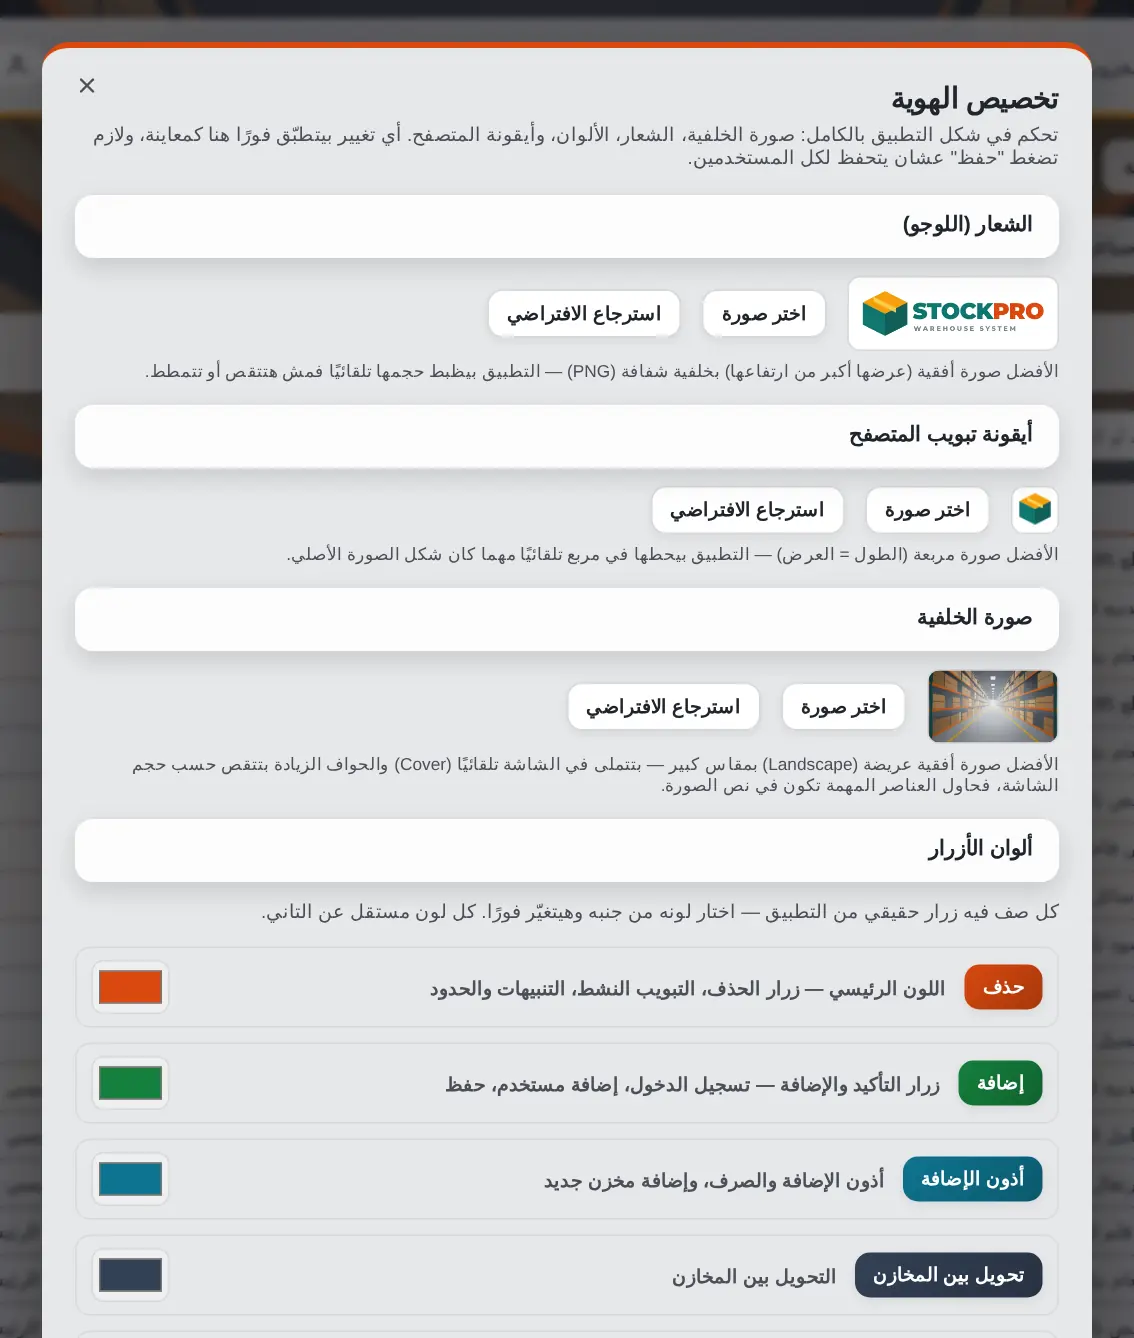
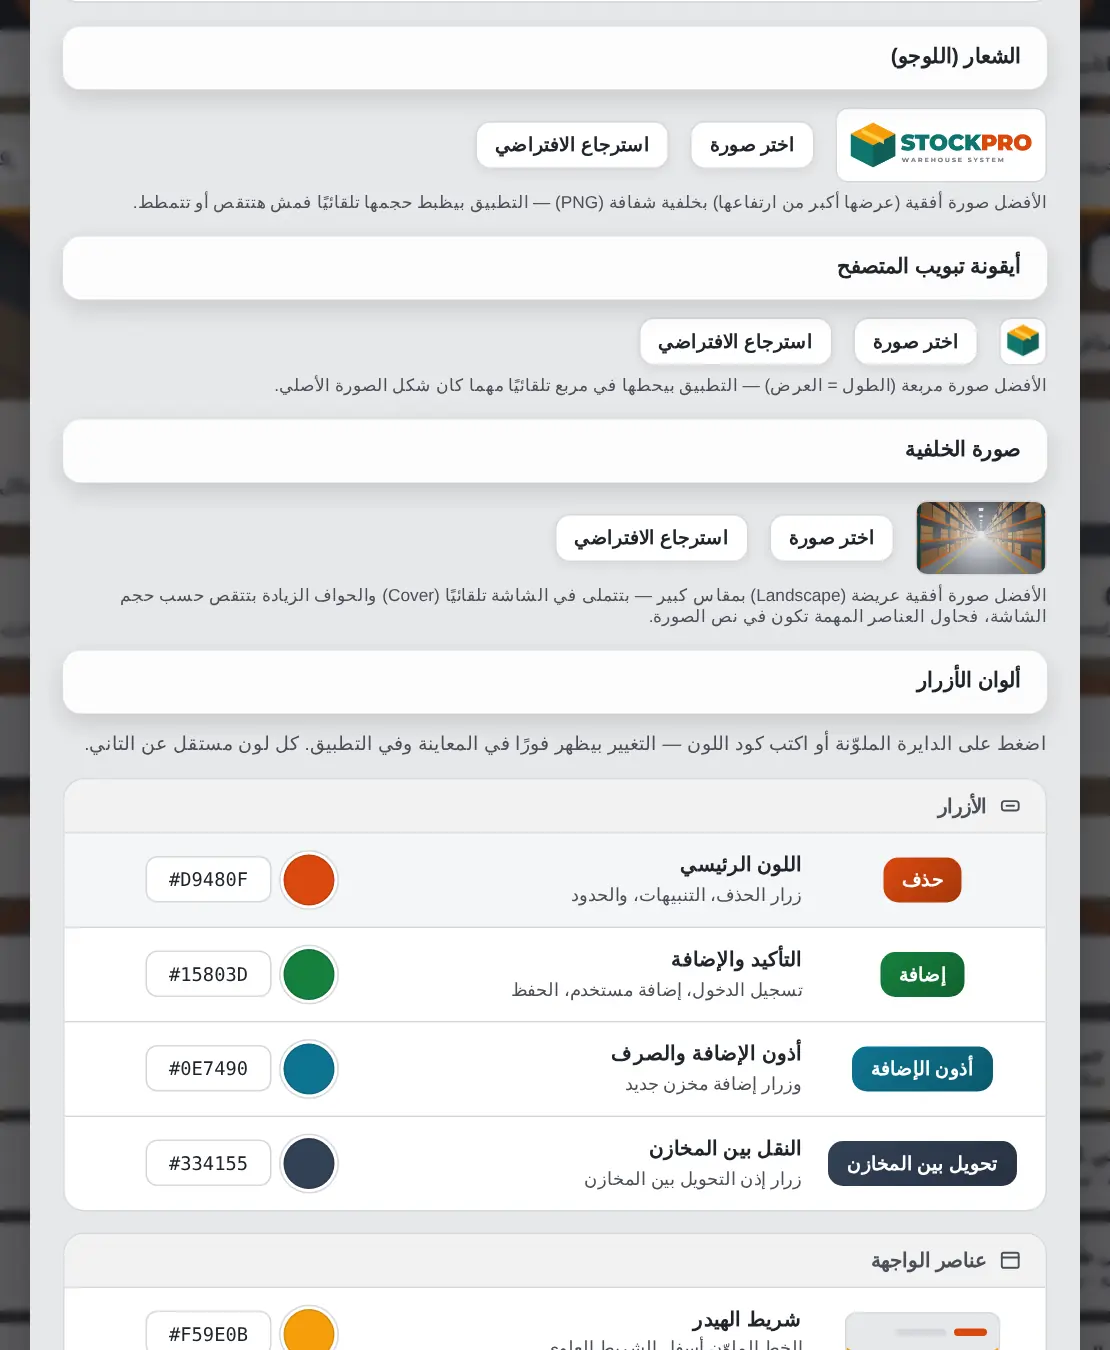
Add files via upload

diff --git a/demo.html b/demo.html
@@ -297,6 +297,45 @@
   html[data-theme="dark"] .print-page-wrap{background:#12141A;}
   html[data-theme="dark"] .print-page, html[data-theme="dark"] .print-page *{color-scheme:light;}
 
+  /* ============ Branding: color settings ============ */
+  .bc-wrap{display:flex;flex-direction:column;gap:14px;margin-top:12px;}
+  .bc-group{background:var(--surface);border:1px solid var(--line);border-radius:14px;overflow:hidden;}
+  .bc-group-title{display:flex;align-items:center;gap:8px;padding:10px 16px;font-family:'Cairo',sans-serif;font-weight:800;font-size:13px;color:var(--ink-soft);background:color-mix(in srgb, var(--canvas) 55%, var(--surface));border-bottom:1px solid var(--line);}
+  .bc-group-title svg{width:15px;height:15px;flex:none;}
+  .bc-row{display:grid;grid-template-columns:132px 1fr auto;align-items:center;gap:14px;padding:12px 16px;border-bottom:1px solid var(--line);transition:background .15s;}
+  .bc-row:last-child{border-bottom:none;}
+  .bc-row:hover{background:color-mix(in srgb, var(--canvas) 40%, var(--surface));}
+  .bc-prev{display:flex;justify-content:center;align-items:center;min-height:36px;}
+  .bc-prev .btn{pointer-events:none;box-shadow:none;}
+  .bc-info{min-width:0;}
+  .bc-info b{display:block;font-family:'Cairo',sans-serif;font-weight:800;font-size:13.5px;color:var(--ink);line-height:1.4;}
+  .bc-info span{display:block;font-size:12px;color:var(--ink-soft);line-height:1.5;margin-top:1px;}
+  .bc-ctrl{display:flex;align-items:center;gap:8px;}
+  .bc-swatch{position:relative;width:34px;height:34px;border-radius:50%;flex:none;cursor:pointer;box-shadow:0 0 0 2px var(--surface), 0 0 0 3px var(--line), inset 0 0 0 1px rgba(0,0,0,.12);transition:transform .12s, box-shadow .12s;}
+  .bc-swatch:hover{transform:scale(1.07);box-shadow:0 0 0 2px var(--surface), 0 0 0 3px var(--ink-soft), inset 0 0 0 1px rgba(0,0,0,.12);}
+  .bc-swatch input{position:absolute;inset:0;width:100%;height:100%;opacity:0;cursor:pointer;border:none;padding:0;}
+  .bc-hex{width:84px;padding:7px 8px;border-radius:8px;border:1px solid var(--line);background:var(--field-bg);color:var(--ink);font-family:ui-monospace,Menlo,Consolas,monospace;font-size:12.5px;text-transform:uppercase;text-align:center;direction:ltr;}
+  .bc-hex:focus{outline:none;border-color:var(--brand);box-shadow:0 0 0 3px rgba(var(--brand-rgb),.12);}
+  .bc-hex.bad{border-color:var(--danger);}
+  .bc-reset{width:30px;height:30px;border-radius:8px;border:1px solid transparent;background:none;color:var(--ink-soft);display:grid;place-items:center;cursor:pointer;flex:none;visibility:hidden;}
+  .bc-reset.show{visibility:visible;}
+  .bc-reset:hover{border-color:var(--line);background:var(--canvas);color:var(--ink);}
+  .bc-reset svg{width:15px;height:15px;}
+  /* mini previews of UI elements */
+  .bcp-header{width:104px;height:30px;border-radius:8px;background:var(--canvas);border:1px solid var(--line);border-bottom:4px solid var(--topbar-accent);display:flex;align-items:center;gap:5px;padding:0 8px;}
+  .bcp-header i{display:block;height:5px;border-radius:3px;background:var(--line);}
+  .bcp-tab{background:var(--nav-active);color:var(--nav-active-ink);border-radius:999px;padding:6px 14px;font-family:'Cairo',sans-serif;font-weight:700;font-size:12px;white-space:nowrap;}
+  .bcp-hover{background:var(--surface);border:1.5px solid var(--quick-hover);color:var(--quick-hover-dark);border-radius:10px;padding:6px 12px;font-family:'Cairo',sans-serif;font-weight:700;font-size:12px;white-space:nowrap;box-shadow:0 6px 14px rgba(30,20,10,.1);}
+  html[data-theme="dark"] .bcp-hover{color:var(--ink);}
+  .bc-footer{margin-top:22px;justify-content:space-between;align-items:center;}
+  @media(max-width:560px){
+    .bc-row{grid-template-columns:1fr auto;grid-template-areas:"prev ctrl" "info info";row-gap:8px;}
+    .bc-prev{grid-area:prev;justify-content:flex-start;}
+    .bc-ctrl{grid-area:ctrl;}
+    .bc-info{grid-area:info;}
+    .bc-hex{width:76px;}
+  }
+
   /* ============ Demo-only UI ============ */
   .demo-banner{display:flex;align-items:center;gap:10px;flex-wrap:wrap;background:rgba(var(--glass-rgb),.9);backdrop-filter:blur(14px);-webkit-backdrop-filter:blur(14px);border:1px dashed color-mix(in srgb, var(--nav-active) 55%, transparent);color:var(--ink);border-radius:12px;padding:8px 12px;margin-bottom:12px;font-size:12.5px;font-weight:700;}
   .demo-dot{width:8px;height:8px;border-radius:50%;background:var(--topbar-accent);box-shadow:0 0 0 4px color-mix(in srgb, var(--topbar-accent) 25%, transparent);flex:none;}
@@ -661,7 +700,12 @@
     <h2 data-i18n="brandingSettingsBtn">تخصيص الهوية</h2>
     <div class="item-meta" data-i18n="brandingDesc">تحكم في شكل التطبيق بالكامل: صورة الخلفية، الشعار، الألوان، وأيقونة المتصفح. أي تغيير بيتطبّق فورًا هنا كمعاينة، ولازم تضغط "حفظ" عشان يتحفظ لكل المستخدمين.</div>
 
-    <div class="section-head" style="margin-top:18px;"><h2 style="font-size:14px;" data-i18n="brandingLogoHeading">الشعار (اللوجو)</h2></div>
+    <div class="section-head" style="margin-top:18px;"><h2 style="font-size:14px;" data-i18n="brandingAppNameHeading">اسم التطبيق (يظهر في تبويب المتصفح)</h2></div>
+    <div class="form-grid" style="margin-top:0;">
+      <div class="full"><input id="brandingAppName" data-i18n-placeholder="brandingAppNamePlaceholder" placeholder="مثال: مخزون النسر" oninput="onBrandingAppNameChange()"></div>
+    </div>
+
+    <div class="section-head" style="margin-top:16px;"><h2 style="font-size:14px;" data-i18n="brandingLogoHeading">الشعار (اللوجو)</h2></div>
     <div style="display:flex;align-items:center;gap:14px;flex-wrap:wrap;margin-bottom:6px;">
       <img id="brandingLogoPreview" style="height:50px;max-width:170px;object-fit:contain;background:var(--surface);border:1px solid var(--line);border-radius:8px;padding:6px;">
       <input type="file" id="brandingLogoFile" class="file-input-hidden" accept="image/*" onchange="onBrandingImageSelected(event,'logo')">
@@ -689,17 +733,13 @@
     <div style="font-size:11.5px;color:var(--ink-soft);margin-bottom:4px;" data-i18n="brandingBgHint">الأفضل صورة أفقية عريضة (Landscape) بمقاس كبير — بتتملى في الشاشة تلقائيًا (Cover) والحواف الزيادة بتتقص حسب حجم الشاشة، فحاول العناصر المهمة تكون في نص الصورة.</div>
 
     <div class="section-head" style="margin-top:16px;"><h2 style="font-size:14px;" data-i18n="brandingColorsHeading">ألوان الأزرار</h2></div>
-    <div class="item-meta" data-i18n="brandingColorsDesc">كل صف فيه زرار حقيقي من التطبيق — اختار لونه من جنبه وهيتغيّر فورًا. كل لون مستقل عن التاني.</div>
-    <div id="brandingColorRows" style="display:flex;flex-direction:column;gap:10px;margin-top:10px;"></div>
-    <div class="form-actions"><button type="button" class="btn btn-ghost btn-sm" onclick="resetAllBranding()" data-i18n="brandingResetAllBtn">استرجاع كل الهوية للافتراضي</button></div>
+    <div class="item-meta" data-i18n="brandingColorsDesc">اضغط على الدايرة الملوّنة أو اكتب كود اللون — التغيير بيظهر فورًا في المعاينة وفي التطبيق. كل لون مستقل عن التاني.</div>
+    <div id="brandingColorRows" class="bc-wrap"></div>
 
-    <div class="section-head" style="margin-top:16px;"><h2 style="font-size:14px;" data-i18n="brandingAppNameHeading">اسم التطبيق (يظهر في تبويب المتصفح)</h2></div>
-    <div class="form-grid">
-      <div class="full"><input id="brandingAppName" data-i18n-placeholder="brandingAppNamePlaceholder" placeholder="مثال: مخزون النسر" oninput="onBrandingAppNameChange()"></div>
-    </div>
 
-    <div class="form-actions" style="margin-top:20px;">
+    <div class="form-actions bc-footer">
       <button class="btn btn-amber" onclick="saveBranding()" data-i18n="saveChangesBtn">حفظ التغييرات</button>
+      <button type="button" class="btn btn-ghost" onclick="resetAllBranding()" data-i18n="brandingResetAllBtn">استرجاع كل الهوية للافتراضي</button>
     </div>
   </div>
 </div>
@@ -1362,7 +1402,7 @@ const I18N = {
     brandingFaviconHint: `الأفضل صورة مربعة (الطول = العرض) — التطبيق بيحطها في مربع تلقائيًا مهما كان شكل الصورة الأصلي.`,
     brandingBgHint: `الأفضل صورة أفقية عريضة (Landscape) بمقاس كبير — بتتملى في الشاشة تلقائيًا (Cover) والحواف الزيادة بتتقص حسب حجم الشاشة، فحاول العناصر المهمة تكون في نص الصورة.`,
     brandingColorsHeading: `ألوان الأزرار`,
-    brandingColorsDesc: `كل صف فيه زرار حقيقي من التطبيق — اختار لونه من جنبه وهيتغيّر فورًا. كل لون مستقل عن التاني.`,
+    brandingColorsDesc: `اضغط على الدايرة الملوّنة أو اكتب كود اللون — التغيير بيظهر فورًا في المعاينة وفي التطبيق. كل لون مستقل عن التاني.`,
     brandingRoleBrand: `اللون الرئيسي — زرار الحذف، التبويب النشط، التنبيهات والحدود`,
     brandingRoleSuccess: `زرار التأكيد والإضافة — تسجيل الدخول، إضافة مستخدم، حفظ`,
     brandingRoleTeal: `أذون الإضافة والصرف، وإضافة مخزن جديد`,
@@ -1372,6 +1412,23 @@ const I18N = {
     brandingRoleQuickHover: `لون إطار الأزرار عند المرور بالماوس (المخازن، إذن إضافة...)`,
     brandingResetFieldBtn: `استرجاع الافتراضي`,
     brandingResetAllBtn: `استرجاع كل الهوية للافتراضي`,
+    brandingGroupButtons: `الأزرار`,
+    brandingGroupInterface: `عناصر الواجهة`,
+    brandingResetColorTitle: `رجوع للون الافتراضي`,
+    brandingRoleBrandTitle: `اللون الرئيسي`,
+    brandingRoleBrandDesc: `زرار الحذف، التنبيهات، والحدود`,
+    brandingRoleSuccessTitle: `التأكيد والإضافة`,
+    brandingRoleSuccessDesc: `تسجيل الدخول، إضافة مستخدم، الحفظ`,
+    brandingRoleTealTitle: `أذون الإضافة والصرف`,
+    brandingRoleTealDesc: `وزرار إضافة مخزن جديد`,
+    brandingRoleIndigoTitle: `النقل بين المخازن`,
+    brandingRoleIndigoDesc: `زرار إذن التحويل بين المخازن`,
+    brandingRoleTopbarAccentTitle: `شريط الهيدر`,
+    brandingRoleTopbarAccentDesc: `الخط الملوّن أسفل الشريط العلوي`,
+    brandingRoleNavActiveTitle: `التبويب المختار`,
+    brandingRoleNavActiveDesc: `لوحة القيادة، الأصناف، سجل الحركات`,
+    brandingRoleQuickHoverTitle: `مرور الماوس على الأزرار`,
+    brandingRoleQuickHoverDesc: `إطار الأزرار السريعة (المخازن، إذن إضافة...)`,
     brandingAppNameHeading: `اسم التطبيق (يظهر في تبويب المتصفح)`,
     brandingAppNamePlaceholder: `مثال: مخزون النسر`,
     brandingSavedMsg: `تم حفظ الهوية الجديدة بنجاح`,
@@ -1743,7 +1800,7 @@ This cannot be undone once executed. Are you sure?`,
     brandingFaviconHint: `A square image (width = height) works best — the app fits it into a square automatically no matter what shape the original is.`,
     brandingBgHint: `A large, wide (landscape) image works best — it fills the screen automatically (Cover) and extra edges get cropped depending on screen size, so keep important elements near the center.`,
     brandingColorsHeading: `Button Colors`,
-    brandingColorsDesc: `Each row shows a real button from the app — pick its color right next to it and it updates instantly. Every color is independent of the others.`,
+    brandingColorsDesc: `Click the color circle or type a color code — the change shows instantly in the preview and across the app. Every color is independent.`,
     brandingRoleBrand: `Main color — delete button, active tab, alerts and borders`,
     brandingRoleSuccess: `Confirm & add button — login, add user, save`,
     brandingRoleTeal: `Stock-in/out vouchers, and adding a new warehouse`,
@@ -1753,6 +1810,23 @@ This cannot be undone once executed. Are you sure?`,
     brandingRoleQuickHover: `Button border color on hover (Warehouses, Add voucher...)`,
     brandingResetFieldBtn: `Reset to default`,
     brandingResetAllBtn: `Reset entire branding to default`,
+    brandingGroupButtons: `Buttons`,
+    brandingGroupInterface: `Interface elements`,
+    brandingResetColorTitle: `Back to default color`,
+    brandingRoleBrandTitle: `Main color`,
+    brandingRoleBrandDesc: `Delete button, alerts and borders`,
+    brandingRoleSuccessTitle: `Confirm & add`,
+    brandingRoleSuccessDesc: `Log in, add user, save`,
+    brandingRoleTealTitle: `Stock-in & stock-out`,
+    brandingRoleTealDesc: `Plus the "add warehouse" button`,
+    brandingRoleIndigoTitle: `Warehouse transfer`,
+    brandingRoleIndigoDesc: `Transfer voucher button`,
+    brandingRoleTopbarAccentTitle: `Header strip`,
+    brandingRoleTopbarAccentDesc: `Colored line under the top bar`,
+    brandingRoleNavActiveTitle: `Selected tab`,
+    brandingRoleNavActiveDesc: `Dashboard, Items, Transaction log`,
+    brandingRoleQuickHoverTitle: `Button hover`,
+    brandingRoleQuickHoverDesc: `Quick-action buttons border (Warehouses, Stock-in...)`,
     brandingAppNameHeading: `App name (shown in the browser tab)`,
     brandingAppNamePlaceholder: `e.g. Eagle Inventory`,
     brandingSavedMsg: `Branding saved successfully`,
@@ -1993,16 +2067,70 @@ function renderBrandingModal(){
   document.getElementById('brandingLogoPreview').src = b.logo;
   document.getElementById('brandingFaviconPreview').src = b.favicon;
   document.getElementById('brandingBgPreview').style.backgroundImage = `url("${b.bgImage}")`;
-  document.getElementById('brandingColorRows').innerHTML = BRANDING_COLOR_ROLES.map(role=>`
-    <div style="display:flex;align-items:center;gap:12px;flex-wrap:wrap;padding:8px 10px;border:1px solid var(--line);border-radius:10px;">
-      ${role.isSwatch
-        ? `<div style="flex:none;width:64px;height:16px;border-radius:5px;background:${b.colors[role.key]};border:1px solid var(--line);"></div>`
-        : `<button type="button" class="btn ${role.btnClass} btn-sm" style="pointer-events:none;flex:none;">${t(role.sampleKey)}</button>`}
-      <span style="flex:1;min-width:120px;font-size:12.5px;color:var(--ink-soft);font-weight:600;" data-i18n="${role.labelKey}">${t(role.labelKey)}</span>
-      <input type="color" id="brandingColorRole_${role.key}" value="${b.colors[role.key]}" onchange="onBrandingColorChange('${role.key}')" style="width:52px;height:36px;padding:2px;border:1px solid var(--line);border-radius:8px;cursor:pointer;flex:none;">
-    </div>
-  `).join('');
+  renderBrandingColorRows(b);
   document.getElementById('brandingAppName').value = (STATE.branding && STATE.branding.appName) || '';
+}
+
+/* ---- Branding: color rows (grouped, with live previews) ---- */
+const BC_RESET_SVG = '<svg viewBox="0 0 24 24" fill="none" stroke="currentColor" stroke-width="2" stroke-linecap="round" stroke-linejoin="round"><polyline points="1 4 1 10 7 10"/><path d="M3.51 15a9 9 0 1 0 2.13-9.36L1 10"/></svg>';
+const BC_GROUPS = [
+  { key:'buttons', titleKey:'brandingGroupButtons', roles:['brand','success','teal','indigo'],
+    icon:'<svg viewBox="0 0 24 24" fill="none" stroke="currentColor" stroke-width="2" stroke-linecap="round" stroke-linejoin="round"><rect x="3" y="7" width="18" height="10" rx="3"/><line x1="8" y1="12" x2="16" y2="12"/></svg>' },
+  { key:'interface', titleKey:'brandingGroupInterface', roles:['topbarAccent','navActive','quickHover'],
+    icon:'<svg viewBox="0 0 24 24" fill="none" stroke="currentColor" stroke-width="2" stroke-linecap="round" stroke-linejoin="round"><rect x="3" y="4" width="18" height="16" rx="2"/><line x1="3" y1="9" x2="21" y2="9"/></svg>' }
+];
+function bcRoleSuffix(key){ return key.charAt(0).toUpperCase()+key.slice(1); }
+function bcPreviewHtml(role){
+  if(role.key==='topbarAccent') return '<div class="bcp-header"><i style="width:22px;background:var(--brand)"></i><i style="width:34px"></i></div>';
+  if(role.key==='navActive') return `<span class="bcp-tab">${t('dashboard')}</span>`;
+  if(role.key==='quickHover') return `<span class="bcp-hover">${t('warehouses')}</span>`;
+  return `<button type="button" class="btn ${role.btnClass} btn-sm" tabindex="-1">${t(role.sampleKey)}</button>`;
+}
+function bcIsCustom(key){ return !!(STATE.branding && STATE.branding.colors && STATE.branding.colors[key]); }
+function renderBrandingColorRows(b){
+  b = b || currentBranding();
+  const byKey = {}; BRANDING_COLOR_ROLES.forEach(r=>byKey[r.key]=r);
+  document.getElementById('brandingColorRows').innerHTML = BC_GROUPS.map(g=>`
+    <div class="bc-group">
+      <div class="bc-group-title">${g.icon}<span>${t(g.titleKey)}</span></div>
+      ${g.roles.map(k=>byKey[k]).filter(Boolean).map(role=>{
+        const sfx = bcRoleSuffix(role.key); const hex = (b.colors[role.key]||'').toUpperCase();
+        return `<div class="bc-row">
+          <div class="bc-prev">${bcPreviewHtml(role)}</div>
+          <div class="bc-info"><b>${t('brandingRole'+sfx+'Title')}</b><span>${t('brandingRole'+sfx+'Desc')}</span></div>
+          <div class="bc-ctrl">
+            <label class="bc-swatch" id="brandingSwatch_${role.key}" style="background:${hex}" title="${t('brandingRole'+sfx+'Title')}">
+              <input type="color" id="brandingColorRole_${role.key}" value="${b.colors[role.key]}" oninput="onBrandingColorChange('${role.key}')" onchange="onBrandingColorChange('${role.key}')">
+            </label>
+            <input class="bc-hex" id="brandingHex_${role.key}" value="${hex}" maxlength="7" spellcheck="false" onchange="onBrandingHexInput('${role.key}')" onkeydown="if(event.key==='Enter'){this.blur();}">
+            <button type="button" class="bc-reset${bcIsCustom(role.key)?' show':''}" id="brandingReset_${role.key}" title="${t('brandingResetColorTitle')}" aria-label="${t('brandingResetColorTitle')}" onclick="resetBrandingColor('${role.key}')">${BC_RESET_SVG}</button>
+          </div>
+        </div>`;
+      }).join('')}
+    </div>`).join('');
+}
+function bcSyncRow(roleKey, hex){
+  const up = (hex||'').toUpperCase();
+  const sw = document.getElementById('brandingSwatch_'+roleKey); if(sw) sw.style.background = up;
+  const hx = document.getElementById('brandingHex_'+roleKey); if(hx && document.activeElement!==hx){ hx.value = up; hx.classList.remove('bad'); }
+  const rs = document.getElementById('brandingReset_'+roleKey); if(rs) rs.classList.toggle('show', bcIsCustom(roleKey));
+}
+function onBrandingHexInput(roleKey){
+  const el = document.getElementById('brandingHex_'+roleKey);
+  let v = (el.value||'').trim().replace(/^#?/, '#');
+  if(/^#[0-9a-fA-F]{3}$/.test(v)) v = '#'+v.slice(1).split('').map(c=>c+c).join('');
+  if(!/^#[0-9a-fA-F]{6}$/.test(v)){ el.classList.add('bad'); return; }
+  el.classList.remove('bad');
+  document.getElementById('brandingColorRole_'+roleKey).value = v.toLowerCase();
+  onBrandingColorChange(roleKey);
+  el.value = v.toUpperCase();
+}
+function resetBrandingColor(roleKey){
+  if(STATE.branding && STATE.branding.colors) delete STATE.branding.colors[roleKey];
+  applyBranding();
+  const def = DEFAULT_BRANDING.colors[roleKey];
+  const inp = document.getElementById('brandingColorRole_'+roleKey); if(inp) inp.value = def;
+  bcSyncRow(roleKey, def);
 }
 async function onBrandingImageSelected(event, field){
   const file = event.target.files[0];
@@ -2085,8 +2213,10 @@ async function resetAllBranding(){
 function onBrandingColorChange(roleKey){
   if(!STATE.branding) STATE.branding = {colors:{}};
   if(!STATE.branding.colors) STATE.branding.colors = {};
-  STATE.branding.colors[roleKey] = document.getElementById('brandingColorRole_'+roleKey).value;
+  const v = document.getElementById('brandingColorRole_'+roleKey).value;
+  STATE.branding.colors[roleKey] = v;
   applyBranding();
+  bcSyncRow(roleKey, v);
 }
 function onBrandingAppNameChange(){
   if(!STATE.branding) STATE.branding = {colors:{}};

diff --git a/index.html b/index.html
@@ -479,7 +479,7 @@
       </ul>
       <div class="swatches" aria-hidden="true"><i style="background:#0F766E"></i><i style="background:#D9480F"></i><i style="background:#F59E0B"></i><i style="background:#1D4ED8"></i><i style="background:#7C3AED"></i><i style="background:#BE123C"></i><i style="background:#334155"></i></div>
     </div>
-    <div class="shot rv"><img src="img-branding.webp" alt="لوحة تخصيص الهوية: اللوجو والأيقونة والخلفية والألوان" width="1134" height="1338" loading="lazy" style="cursor:zoom-in" data-zoom></div>
+    <div class="shot rv"><img src="img-branding.webp" alt="لوحة تخصيص الهوية: اللوجو والأيقونة والخلفية والألوان" width="1110" height="1350" loading="lazy" style="cursor:zoom-in" data-zoom></div>
   </div>
 </section>
 
